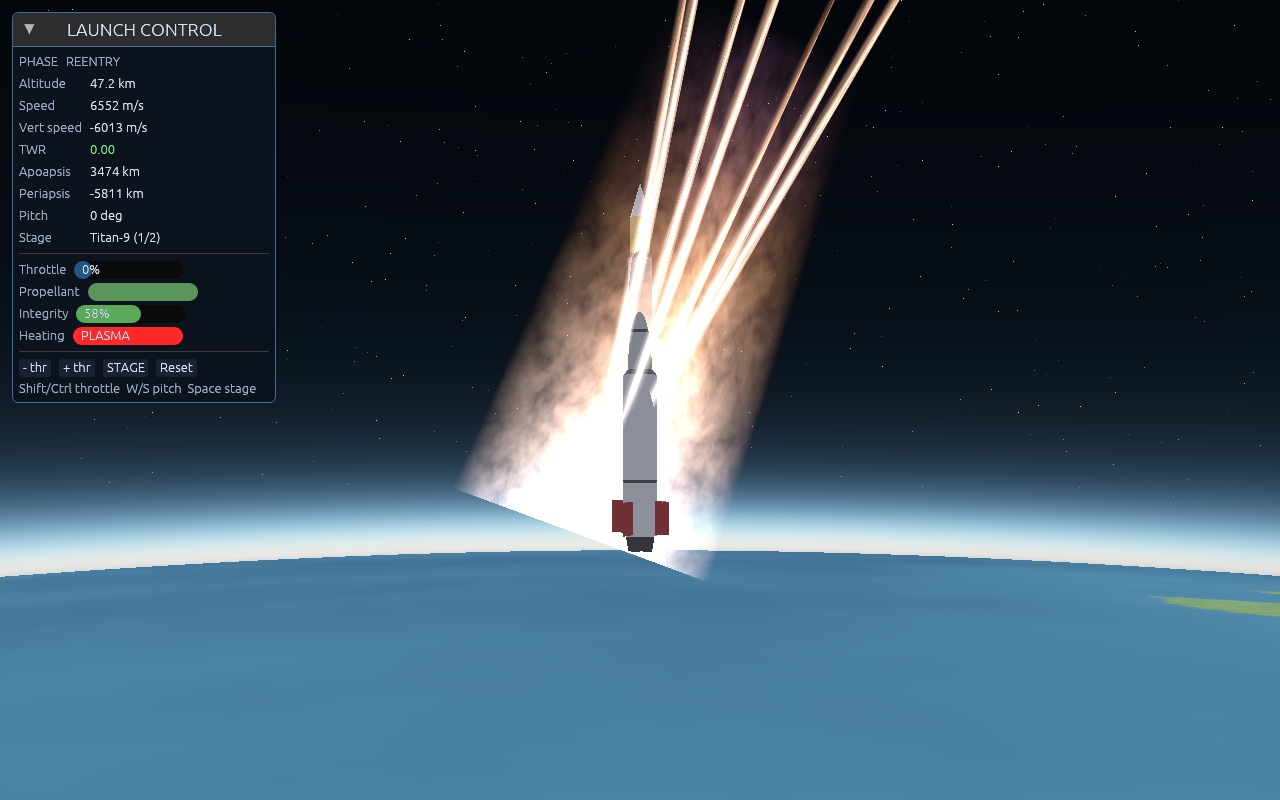
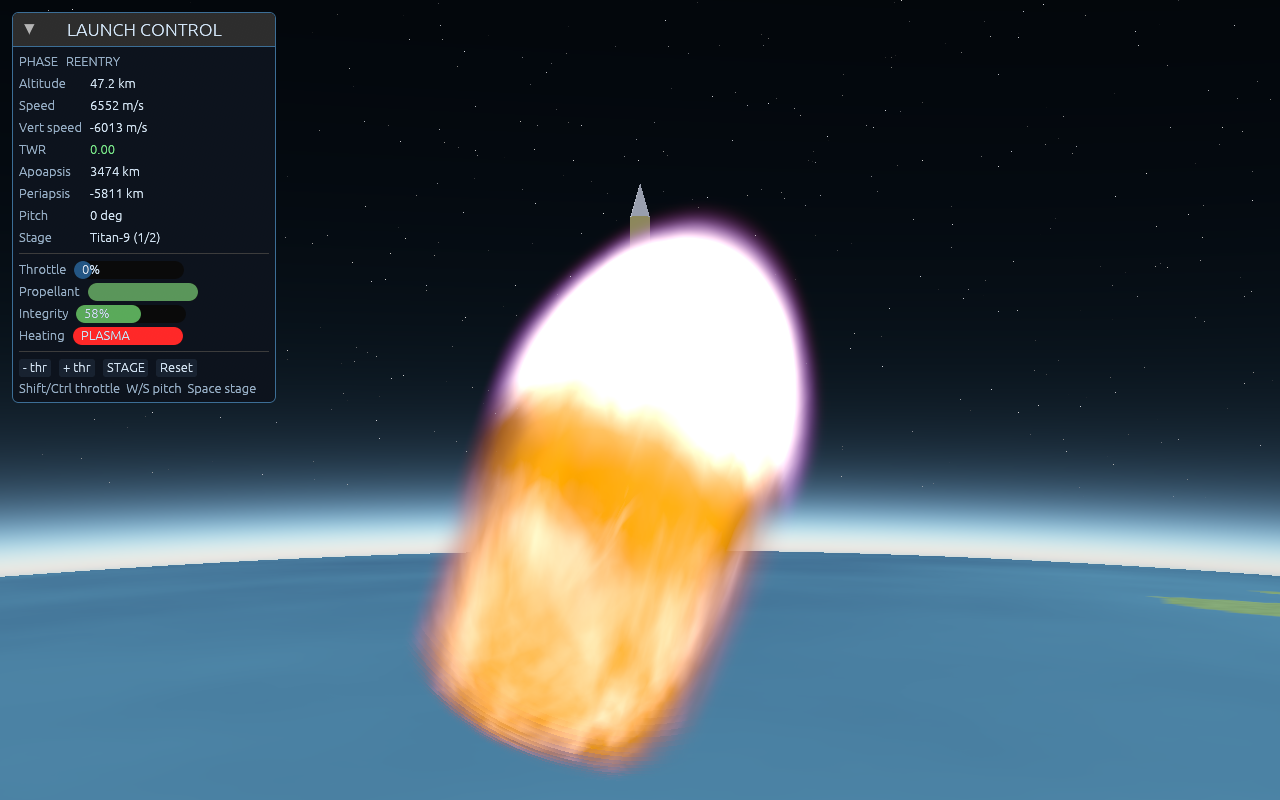
Volumetric re-entry plasma pass (raymarched, replaces billboards)
Redone properly as a real volumetric effect after nimitz's "Re-entry"
(Shadertoy 4dGyRh, CC BY-NC-SA 3.0 - attribution in plasma.wgsl), instead of
the billboard cards.

- New fullscreen pass (plasma.wgsl + plasma_pipeline): per pixel it builds the
  camera ray, transforms into a local frame anchored at the rocket (+Y =
  downwind, sized to the vehicle), and raymarches the fireball volume through a
  bounding sphere. Density + triangle-noise turbulence + the gradient-driven
  blue-white compression front / orange body are ported from the reference;
  the envelope is stretched so the wake streams up the long rocket body, with
  the dense shock biased to the windward face. Composited premultiplied-over on
  top of the meshes (before the exhaust flame), so the vehicle glows inside a
  real boiling shock layer.
- Driven by the heating level: the pass only runs past genuine reentry heating
  (a normal ascent stays clear) and its brightness scales with heat.
- Removed the old billboard plasma (push_plasma) and its FX-card path.

New PlasmaUniforms + draw_plasma wired into both the live and headless
(shot) render paths. Verified: reentry shot shows the fireball enveloping the
vehicle; ascent/staging shots unchanged; 9 tests pass.

Claude-Session: https://claude.ai/code/session_015rgZaKRwkq7uhHfk1rLhmk

Changed region(s): [[0.3125, 0.0, 0.7188, 0.9688]]

diff --git a/crates/app/src/main.rs b/crates/app/src/main.rs
@@ -228,6 +228,25 @@ struct SkyUniforms {
     params: [f32; 4],
 }
 
+/// Uniforms for the volumetric re-entry plasma pass (camera-relative scene
+/// space): the camera basis + a local frame anchored at the rocket.
+#[repr(C)]
+#[derive(Copy, Clone, bytemuck::Pod, bytemuck::Zeroable)]
+struct PlasmaUniforms {
+    right: [f32; 4],
+    up: [f32; 4],
+    fwd: [f32; 4],
+    eye: [f32; 4],
+    /// xyz = plasma centre (camera-relative), w = metres per plasma unit.
+    center: [f32; 4],
+    /// +Y plasma axis (downwind/airflow direction).
+    axis: [f32; 4],
+    /// +X plasma axis (perpendicular).
+    side: [f32; 4],
+    /// x = tan(fov/2), y = aspect, z = time, w = heat (0..~1.3).
+    params: [f32; 4],
+}
+
 /// Far plane for the rocket-view log-depth buffer (m): beyond planet diameter.
 const LOG_DEPTH_FAR: f32 = 2.0e7;
 
@@ -941,6 +960,49 @@ impl World {
                 if self.space { 2.0 } else if self.lunar { 1.0 } else { 0.0 },
             ],
             params: [tan, aspect, self.body.radius as f32, r_atm as f32],
+        }
+    }
+
+    /// Current re-entry heating glow (0 when not launched / cool). Drives whether
+    /// the volumetric plasma pass runs and how bright it is.
+    fn plasma_heat(&self) -> f32 {
+        self.launch
+            .as_ref()
+            .filter(|rk| !rk.destroyed)
+            .map(|rk| rk.heat as f32)
+            .unwrap_or(0.0)
+    }
+
+    /// Uniforms for the volumetric plasma pass: a local frame anchored at the
+    /// rocket with +Y downwind (so the fireball wraps the windward face and
+    /// streams behind), sized to the vehicle.
+    fn plasma_uniforms(&self, res: [f32; 2]) -> PlasmaUniforms {
+        let aspect = res[0] / res[1].max(1.0);
+        let (eye, _t, right, up, fwd, tan) = self.rocket_camera(aspect);
+        let (axis, side, center, scale) = match self.launch.as_ref() {
+            Some(rk) => {
+                let vdir = self.dir_to_local(rk.v.normalize_or_zero());
+                let body_axis = self.dir_to_local(rk.point_dir());
+                let downwind = if vdir.length_squared() > 1e-6 { -vdir } else { -body_axis };
+                let pick = if downwind.y.abs() < 0.9 { Vec3::Y } else { Vec3::X };
+                let x = downwind.cross(pick).normalize_or_zero();
+                let height = self.rocket_body.height.max(8.0);
+                // centre on the vehicle's mid-body; the density's windward bias
+                // puts the bright shock on the leading face on its own.
+                let com = self.to_local_d(rk.r) + body_axis.as_dvec3() * (height as f64 * 0.22);
+                (downwind, x, self.rel(com), height * 0.30)
+            }
+            None => (Vec3::Y, Vec3::X, Vec3::ZERO, 20.0),
+        };
+        PlasmaUniforms {
+            right: [right.x, right.y, right.z, 0.0],
+            up: [up.x, up.y, up.z, 0.0],
+            fwd: [fwd.x, fwd.y, fwd.z, 0.0],
+            eye: [eye.x, eye.y, eye.z, 0.0],
+            center: [center.x, center.y, center.z, scale],
+            axis: [axis.x, axis.y, axis.z, 0.0],
+            side: [side.x, side.y, side.z, 0.0],
+            params: [tan, aspect, self.anim, self.plasma_heat()],
         }
     }
 
@@ -1867,88 +1929,12 @@ impl World {
         out
     }
 
-    /// Reentry plasma: a glowing bow-shock cap wrapping the windward side of the
-    /// rocket (the face hitting the air) plus plasma streaks licking downwind, as
-    /// camera-facing additive cards (FX kind 3). Intensity tracks `rk.heat`.
-    fn push_plasma(&self, out: &mut Vec<FxVertex>, rk: &launch::Rocket, heat: f32, eye: Vec3) {
-        let vlen = rk.v.length();
-        if vlen < 1.0 {
-            return;
-        }
-        let vdir = self.dir_to_local(rk.v.normalize_or_zero()); // wind blows from +vdir
-        let axis = self.dir_to_local(rk.point_dir()); // rocket long axis
-        let base = self.to_local_d(rk.r);
-        let height = self.rocket_body.height.max(8.0);
-        let center = base + axis.as_dvec3() * (height as f64 * 0.45);
-        let rwidth = self.rocket_body.engine_r.first().copied().unwrap_or(2.0).max(2.0);
-        // a bit ahead of the rocket's furthest point into the wind
-        let lead = center + vdir.as_dvec3() * (height as f64 * 0.45 + rwidth as f64);
-        let back = -vdir; // plasma streams downwind, opposite the velocity
-
-        // axis-billboard card: length runs along `dir`, width faces the camera.
-        let mut card = |anchor: DVec3, dir: Vec3, length: f32, half_w: f32, taper: f32, seed: f32, role: f32| {
-            let a = self.rel(anchor);
-            let tip = a + dir * length;
-            let view = (a - eye).normalize_or_zero();
-            let mut w_axis = dir.cross(view).normalize_or_zero();
-            if w_axis.length_squared() < 1e-4 {
-                w_axis = Vec3::Y.cross(dir).normalize_or_zero();
-            }
-            let wn = w_axis * half_w;
-            let wt = w_axis * (half_w * taper);
-            let col = [seed, heat, role, 0.0];
-            let q = [
-                (a - wn, [0.0f32, 0.0]),
-                (a + wn, [1.0, 0.0]),
-                (tip + wt, [1.0, 1.0]),
-                (tip - wt, [0.0, 1.0]),
-            ];
-            for &i in &[0usize, 1, 2, 0, 2, 3] {
-                out.push(FxVertex { pos: q[i].0.into(), uv: q[i].1, color: col, kind: 3.0 });
-            }
-        };
-
-        // 1) broad bow-shock cap wrapping the windward apex: a faint outer halo,
-        // the main cap, then a brighter hot core stacked at the stagnation line.
-        let cap_len = height * (0.55 + 0.5 * heat);
-        let cap_w = rwidth * (2.6 + 2.0 * heat);
-        card(lead, back, cap_len * 1.25, cap_w * 1.5, 0.7, 0.42, 0.0); // soft halo
-        card(lead, back, cap_len, cap_w, 0.55, 0.12, 0.0); // main cap
-        card(lead, back, cap_len * 0.6, cap_w * 0.62, 0.5, 0.61, 0.0); // hot core
-
-        // 2) plasma streaks off the flanks, streaming downwind and fanning out
-        // a little so the wake reads as a full sheet of ionised gas.
-        let pick = if vdir.y.abs() < 0.9 { Vec3::Y } else { Vec3::X };
-        let t1 = vdir.cross(pick).normalize_or_zero();
-        let t2 = vdir.cross(t1).normalize_or_zero();
-        let streaks = 7;
-        for k in 0..streaks {
-            let ang = k as f32 / streaks as f32 * std::f32::consts::TAU;
-            let off_dir = t1 * ang.cos() + t2 * ang.sin();
-            let anchor = center
-                + vdir.as_dvec3() * (height as f64 * 0.2)
-                + (off_dir * (rwidth * 0.85)).as_dvec3();
-            // fan the streak slightly outward from straight-downwind
-            let dir = (back + off_dir * 0.18).normalize_or_zero();
-            let wobble = 0.7 + 0.3 * (k as f32 * 1.3).sin().abs();
-            let len = height * (0.8 + 1.7 * heat) * wobble;
-            card(anchor, dir, len, rwidth * 0.5, 0.12, 0.2 + 0.13 * k as f32, 1.0);
-        }
-    }
-
     /// Thruster FX billboards for the rocket view: an emissive flame at the
     /// active nozzle (axis-aligned cards facing the camera) and the smoke-
     /// particle trail (camera-facing puffs). `right`/`up` are the camera basis.
     fn build_fx(&self, eye: Vec3, right: Vec3, up: Vec3) -> Vec<FxVertex> {
         let mut out: Vec<FxVertex> = Vec::new();
-
-        // ---- reentry plasma shock (windward bow shock + trailing streaks) ----
-        if let Some(rk) = self.launch.as_ref() {
-            let heat = rk.heat as f32;
-            if heat > 0.12 && !rk.destroyed {
-                self.push_plasma(&mut out, rk, heat, eye);
-            }
-        }
+        // (re-entry plasma is now a dedicated volumetric pass; see plasma.wgsl.)
 
         // ---- exhaust flame at the active nozzle ----
         if let Some(rk) = self.launch.as_ref() {
@@ -2552,6 +2538,10 @@ struct Gpu {
     sky_pipeline: wgpu::RenderPipeline,
     sky_uniform_buf: wgpu::Buffer,
     sky_bind_group: wgpu::BindGroup,
+    /// Volumetric re-entry plasma (fullscreen raymarch, over the scene).
+    plasma_pipeline: wgpu::RenderPipeline,
+    plasma_uniform_buf: wgpu::Buffer,
+    plasma_bind_group: wgpu::BindGroup,
 }
 
 impl Gpu {
@@ -2984,6 +2974,85 @@ impl Gpu {
             cache: None,
         });
 
+        // Plasma pipeline: fullscreen volumetric re-entry fireball, composited
+        // premultiplied-over on top of the scene (no depth write/test).
+        let plasma_shader = device.create_shader_module(wgpu::ShaderModuleDescriptor {
+            label: Some("plasma"),
+            source: wgpu::ShaderSource::Wgsl(include_str!("plasma.wgsl").into()),
+        });
+        let plasma_uniform_buf = device.create_buffer(&wgpu::BufferDescriptor {
+            label: Some("plasma-uniforms"),
+            size: std::mem::size_of::<PlasmaUniforms>() as u64,
+            usage: wgpu::BufferUsages::UNIFORM | wgpu::BufferUsages::COPY_DST,
+            mapped_at_creation: false,
+        });
+        let plasma_bind_layout = device.create_bind_group_layout(&wgpu::BindGroupLayoutDescriptor {
+            label: Some("plasma-bind-layout"),
+            entries: &[wgpu::BindGroupLayoutEntry {
+                binding: 0,
+                visibility: wgpu::ShaderStages::VERTEX_FRAGMENT,
+                ty: wgpu::BindingType::Buffer {
+                    ty: wgpu::BufferBindingType::Uniform,
+                    has_dynamic_offset: false,
+                    min_binding_size: None,
+                },
+                count: None,
+            }],
+        });
+        let plasma_bind_group = device.create_bind_group(&wgpu::BindGroupDescriptor {
+            label: Some("plasma-bind-group"),
+            layout: &plasma_bind_layout,
+            entries: &[wgpu::BindGroupEntry { binding: 0, resource: plasma_uniform_buf.as_entire_binding() }],
+        });
+        let plasma_layout = device.create_pipeline_layout(&wgpu::PipelineLayoutDescriptor {
+            label: Some("plasma-layout"),
+            bind_group_layouts: &[Some(&plasma_bind_layout)],
+            immediate_size: 0,
+        });
+        let plasma_pipeline = device.create_render_pipeline(&wgpu::RenderPipelineDescriptor {
+            label: Some("plasma-pipeline"),
+            layout: Some(&plasma_layout),
+            vertex: wgpu::VertexState {
+                module: &plasma_shader,
+                entry_point: Some("vs"),
+                buffers: &[],
+                compilation_options: Default::default(),
+            },
+            fragment: Some(wgpu::FragmentState {
+                module: &plasma_shader,
+                entry_point: Some("fs"),
+                targets: &[Some(wgpu::ColorTargetState {
+                    format,
+                    // premultiplied-over: rgb already carries rgb*alpha.
+                    blend: Some(wgpu::BlendState {
+                        color: wgpu::BlendComponent {
+                            src_factor: wgpu::BlendFactor::One,
+                            dst_factor: wgpu::BlendFactor::OneMinusSrcAlpha,
+                            operation: wgpu::BlendOperation::Add,
+                        },
+                        alpha: wgpu::BlendComponent {
+                            src_factor: wgpu::BlendFactor::One,
+                            dst_factor: wgpu::BlendFactor::OneMinusSrcAlpha,
+                            operation: wgpu::BlendOperation::Add,
+                        },
+                    }),
+                    write_mask: wgpu::ColorWrites::ALL,
+                })],
+                compilation_options: Default::default(),
+            }),
+            primitive: wgpu::PrimitiveState::default(),
+            depth_stencil: Some(wgpu::DepthStencilState {
+                format: DEPTH_FORMAT,
+                depth_write_enabled: Some(false),
+                depth_compare: Some(wgpu::CompareFunction::Always),
+                stencil: wgpu::StencilState::default(),
+                bias: wgpu::DepthBiasState::default(),
+            }),
+            multisample: wgpu::MultisampleState::default(),
+            multiview_mask: None,
+            cache: None,
+        });
+
         // Full-planet terrain is a dynamic, camera-relative buffer rebuilt as the
         // camera moves (floating origin); the rocket/pad are in dyn_vbuf.
         let terrain_vbuf = device.create_buffer(&wgpu::BufferDescriptor {
@@ -3017,6 +3086,9 @@ impl Gpu {
             sky_pipeline,
             sky_uniform_buf,
             sky_bind_group,
+            plasma_pipeline,
+            plasma_uniform_buf,
+            plasma_bind_group,
         }
     }
 
@@ -3029,10 +3101,11 @@ impl Gpu {
         w: u32,
         h: u32,
         time: f32,
-    ) -> (usize, usize, u32, u32) {
+    ) -> (usize, usize, u32, u32, bool) {
         let res = [w as f32, h.max(1) as f32];
         let mut dyn_n = 0u32;
         let mut fx_n = 0u32;
+        let mut plasma_on = false;
         match world.view {
             View::Map => {
                 let su = world.scene_uniforms(res, time);
@@ -3058,6 +3131,13 @@ impl Gpu {
                 queue.write_buffer(&self.mesh_uniform_buf, 0, bytemuck::bytes_of(&mu));
                 let sk = world.sky_uniforms(res);
                 queue.write_buffer(&self.sky_uniform_buf, 0, bytemuck::bytes_of(&sk));
+                // re-entry plasma: only run the volume pass at genuine reentry
+                // heating (a normal ascent stays well below this).
+                if world.plasma_heat() > 0.32 {
+                    let pu = world.plasma_uniforms(res);
+                    queue.write_buffer(&self.plasma_uniform_buf, 0, bytemuck::bytes_of(&pu));
+                    plasma_on = true;
+                }
                 let dyn_verts = world.build_dynamic_mesh();
                 dyn_n = (dyn_verts.len() as u64).min(DYN_MESH_CAP) as u32;
                 if dyn_n > 0 {
@@ -3087,7 +3167,7 @@ impl Gpu {
         if hn > 0 {
             queue.write_buffer(&self.hud_buf, 0, bytemuck::cast_slice(&hud_verts[..hn]));
         }
-        (n, hn, dyn_n, fx_n)
+        (n, hn, dyn_n, fx_n, plasma_on)
     }
 
     /// Draw the thruster FX billboards (flame + smoke), in the mesh pass.
@@ -3144,6 +3224,15 @@ impl Gpu {
         pass.set_pipeline(&self.sky_pipeline);
         pass.set_bind_group(0, &self.sky_bind_group, &[]);
         pass.draw(0..3, 0..1);
+    }
+
+    /// Volumetric re-entry plasma, composited over the scene (mesh pass).
+    fn draw_plasma(&self, pass: &mut wgpu::RenderPass, on: bool) {
+        if on {
+            pass.set_pipeline(&self.plasma_pipeline);
+            pass.set_bind_group(0, &self.plasma_bind_group, &[]);
+            pass.draw(0..3, 0..1);
+        }
     }
 }
 
@@ -3520,7 +3609,7 @@ impl State {
             self.fps_since = t;
         }
 
-        let (n, hn, dyn_n, fx_n) = self
+        let (n, hn, dyn_n, fx_n, plasma_on) = self
             .gpu
             .prepare(&self.queue, &mut self.world, self.config.width, self.config.height, t);
         let terrain_n = self.world.terrain_count;
@@ -3598,6 +3687,7 @@ impl State {
                 let mut pass = mesh_pass(&mut encoder, &view, &self.depth_view);
                 self.gpu.draw_sky(&mut pass);
                 self.gpu.draw_meshes(&mut pass, terrain_n, dyn_n);
+                self.gpu.draw_plasma(&mut pass, plasma_on);
                 self.gpu.draw_fx(&mut pass, fx_n);
             }
             {
@@ -4571,7 +4661,7 @@ fn render_shot(
     });
     let target_view = target.create_view(&wgpu::TextureViewDescriptor::default());
 
-    let (n, hn, dyn_n, fx_n) = gpu.prepare(queue, &mut world, width, height, time);
+    let (n, hn, dyn_n, fx_n, plasma_on) = gpu.prepare(queue, &mut world, width, height, time);
     let terrain_n = world.terrain_count;
 
     // 256-byte aligned row pitch for the readback copy.
@@ -4593,6 +4683,7 @@ fn render_shot(
             let mut pass = mesh_pass(&mut encoder, &target_view, &depth);
             gpu.draw_sky(&mut pass);
             gpu.draw_meshes(&mut pass, terrain_n, dyn_n);
+            gpu.draw_plasma(&mut pass, plasma_on);
             gpu.draw_fx(&mut pass, fx_n);
         }
         {